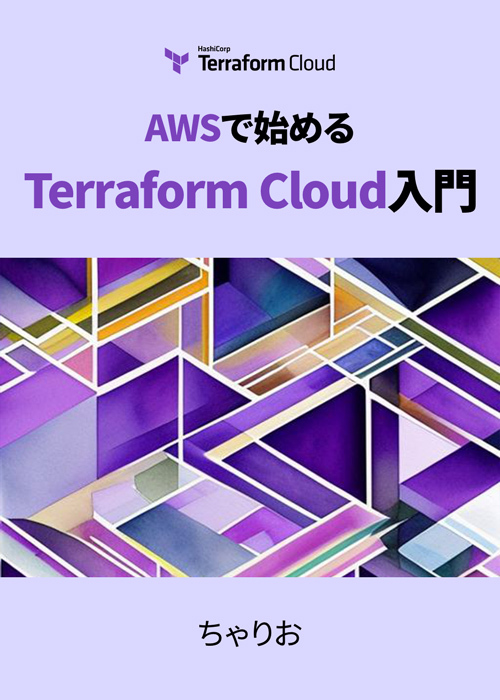
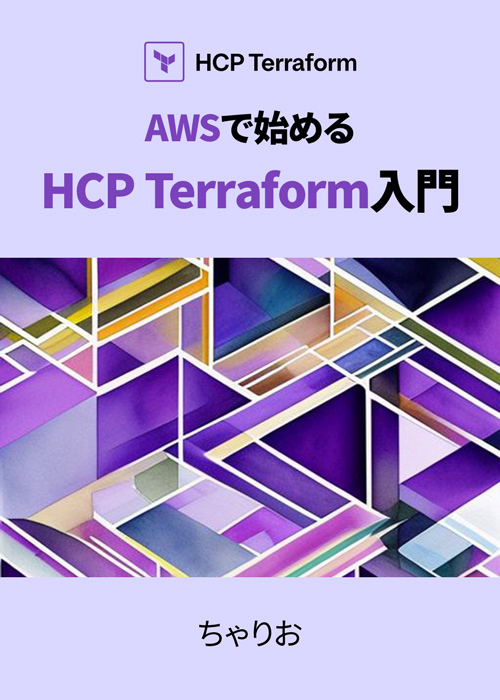
update: rename tfc to hcp terraform

diff --git a/books/tfc-aws-introductory-book/06_00_tfc_function.md b/books/tfc-aws-introductory-book/06_00_tfc_function.md
@@ -1,14 +1,14 @@
 ---
-title: "Chapter6: Terraform Cloud その他の機能"
+title: "Chapter6: HCP Terraform その他の機能"
 ---
 
 :::message
-ハンズオンでTerraform Cloudの基本的な操作を体験してもらいました。
+ハンズオンでHCP Terraformの基本的な操作を体験してもらいました。
 本セクションでは、ハンズオンで紹介しきれなかった機能の一部を紹介します。
 
 :::
 
-## Terraform Cloudの機能
+## HCP Terraformの機能
 
 | カテゴリ                        | 機能名                       | 概要                                                                            |
 |-----------------------------|---------------------------|-------------------------------------------------------------------------------|
@@ -20,6 +20,6 @@ title: "Chapter6: Terraform Cloud その他の機能"
 | Unified workflow management | Private Registry          | 組織内だけで使用可能なTerraformモジュール/プロパイダーを提供する機能                                       |
 |                             | No Code Provisioning      | 事前に用意したモジュールを使って、GUIでリソース作成できるを機能                                             |
 | Policy & Security           | Policy as code            | ポリシー(OPA・Sentinel)を定義し、実行前にチェックを実施<br/>                                       |
-|                             | Run Task                  | サードパーティツールとTerraform Cloudを統合する機能<br/>Plan時にサードパーティツールによるセキュリティチェックを組み込むなどが可能 |
+|                             | Run Task                  | サードパーティツールとHCP Terraformを統合する機能<br/>Plan時にサードパーティツールによるセキュリティチェックを組み込むなどが可能 |
 
 [HashiCorp Terraform: Enterprise Pricing, Packages & Features](https://www.hashicorp.com/products/terraform/pricing)

diff --git a/books/tfc-aws-introductory-book/05_01_tfc_aws_archi.md b/books/tfc-aws-introductory-book/05_01_tfc_aws_archi.md
@@ -10,13 +10,13 @@ title: "　ハンズオンで構築する構成"
 
 ## 全体構成
 
-Terraform CloudのWorkspaceはGitHubと連携させます。
+HCP TerraformのWorkspaceはGitHubと連携させます。
 
 AWS環境を本番とSTGで分けている想定で、Workspaceをそれぞの環境ごとに作成します。
 
 本来なら環境ごとにAWSアカウントを分割したほうが良いですが、ハンズオンの都合で1つのAWSアカウントに2つの環境がある想定とします。
 
-Terraform CloudはIAM Roleを使用して、各AWSリソースの操作を行います。
+HCP TerraformはIAM Roleを使用して、各AWSリソースの操作を行います。
 
 1つのAWSアカウントのため、IAM Roleも1つだけ(※1)用意してVariables Setに登録してそれぞれのWorkspaceで使用できるようにします。
 
@@ -49,8 +49,8 @@ VPCを本番/STGの環境ごとに分割します。
 慎重にデプロイ作業を行いため、手動承認を行いたいケースもあります。
 そのため、本番は手動承認ありのフローとしました。
 
-今回はmainブランチをリリース用のブランチとして使用しますが、Terraform CloudではWorkspaceごとにブランチを設定できるため環境ごとにブランチを分ける方法も可能です。
+今回はmainブランチをリリース用のブランチとして使用しますが、HCP TerraformではWorkspaceごとにブランチを設定できるため環境ごとにブランチを分ける方法も可能です。
 
-<!-- 絵のterraform applyとかしている枠にTerraform Cloudのアイコンを付ける -->
+<!-- 絵のterraform applyとかしている枠にHCP Terraformのアイコンを付ける -->
 
 ![](/images/chapter_5/01-tfc-aws-book-archi-3.png)

diff --git a/books/tfc-aws-introductory-book/06_06_private_registry.md b/books/tfc-aws-introductory-book/06_06_private_registry.md
@@ -23,7 +23,7 @@ Terraform Provider/Module を組織内に共有する機能です。
 | 項目        | Terraform Registry | Private Registry                                         |
 |-----------|--------------------|----------------------------------------------------------|
 | 公開範囲      | Public(誰でも)        | Private(組織内)                                             |
-| 対応しているVCS | GitHub             | Terraform Cloudが対応しているVCS<br/>(GitHub、GitLab、Bitbucket等) |
+| 対応しているVCS | GitHub             | HCP Terraformが対応しているVCS<br/>(GitHub、GitLab、Bitbucket等) |
 
 ## ユースケース
 
@@ -32,5 +32,5 @@ Terraform Provider/Module を組織内に共有する機能です。
 
 ## 参考
 
-- [プライベート レジストリ \- Terraform Cloud \| テラフォーム \| HashiCorp開発者](https://developer.hashicorp.com/terraform/cloud-docs/registry)
-- [Terraform CloudのPrivate Registryを使ってmoduleを組織内にだけ公開してみる \| DevelopersIO](https://dev.classmethod.jp/articles/terraform-cloud-private-registry-module-publish/)
+- [プライベート レジストリ \- HCP Terraform \| テラフォーム \| HashiCorp開発者](https://developer.hashicorp.com/terraform/cloud-docs/registry)
+- [HCP TerraformのPrivate Registryを使ってmoduleを組織内にだけ公開してみる \| DevelopersIO](https://dev.classmethod.jp/articles/terraform-cloud-private-registry-module-publish/)

diff --git a/books/tfc-aws-introductory-book/01_introduction.md b/books/tfc-aws-introductory-book/01_introduction.md
@@ -4,7 +4,7 @@ title: "Chapter1: はじめに"
 
 ## 本書について
 
-本書は、Terraformは使ったことはあるがTerraform Cloudは使ったことがないという方を対象に、**Terraform Cloudに関する知識がない状態から、本番環境でTerraform Cloudを使ったTerraform運用をできる**ようになることを目的としています。
+本書は、Terraformは使ったことはあるがHCP Terraformは使ったことがないという方を対象に、**HCP Terraformに関する知識がない状態から、本番環境でHCP Terraformを使ったTerraform運用をできる**ようになることを目的としています。
 
 なお、Terraformで管理するリソースはAWSを前提としています。
 
@@ -12,8 +12,8 @@ title: "Chapter1: はじめに"
 
 本書では、以下のような読者の方を対象としています。
 
-- Terraform Cloudでどのようなことができるのか知りたい方
-- Terraform Cloudの概要は知っているが、具体的にどう使うのかを知りたい方
+- HCP Terraformでどのようなことができるのか知りたい方
+- HCP Terraformの概要は知っているが、具体的にどう使うのかを知りたい方
 - TerraformのCI/CDパイプラインを検討している方
 - 組織のTerraform運用にガバナンスを効かせたい方
 

diff --git a/books/tfc-aws-introductory-book/03_tfc_concept.md b/books/tfc-aws-introductory-book/03_tfc_concept.md
@@ -1,9 +1,9 @@
 ---
-title: "Chapter3: Terraform Cloudの基本概念"
+title: "Chapter3: HCP Terraformの基本概念"
 ---
 
 :::message
-本チャプターでは、Terraform Cloudの構成要素であるOrganizationやWorkspaceについて解説します。
+本チャプターでは、HCP Terraformの構成要素であるOrganizationやWorkspaceについて解説します。
 :::
 
 <!-- Run TaskやPrivate Registory Policy Setも追加したい -->
@@ -12,7 +12,7 @@ title: "Chapter3: Terraform Cloudの基本概念"
 
 ## Organization
 
-Terraform Cloudの一番大きい管理単位です。
+HCP Terraformの一番大きい管理単位です。
 
 料金プランはOrganization単位で選択します。
 
@@ -47,7 +47,7 @@ Variablesには2種類あります。
 
 ### Environment Variables
 
-Terraform CloudではRunのタイミングでVMが立ち上がり、VM上で`terraform plan`や`terraform apply`が実行されます。
+HCP TerraformではRunのタイミングでVMが立ち上がり、VM上で`terraform plan`や`terraform apply`が実行されます。
 
 `Environment Variables`を設定することで、VMに変数を渡すことができます。
 
